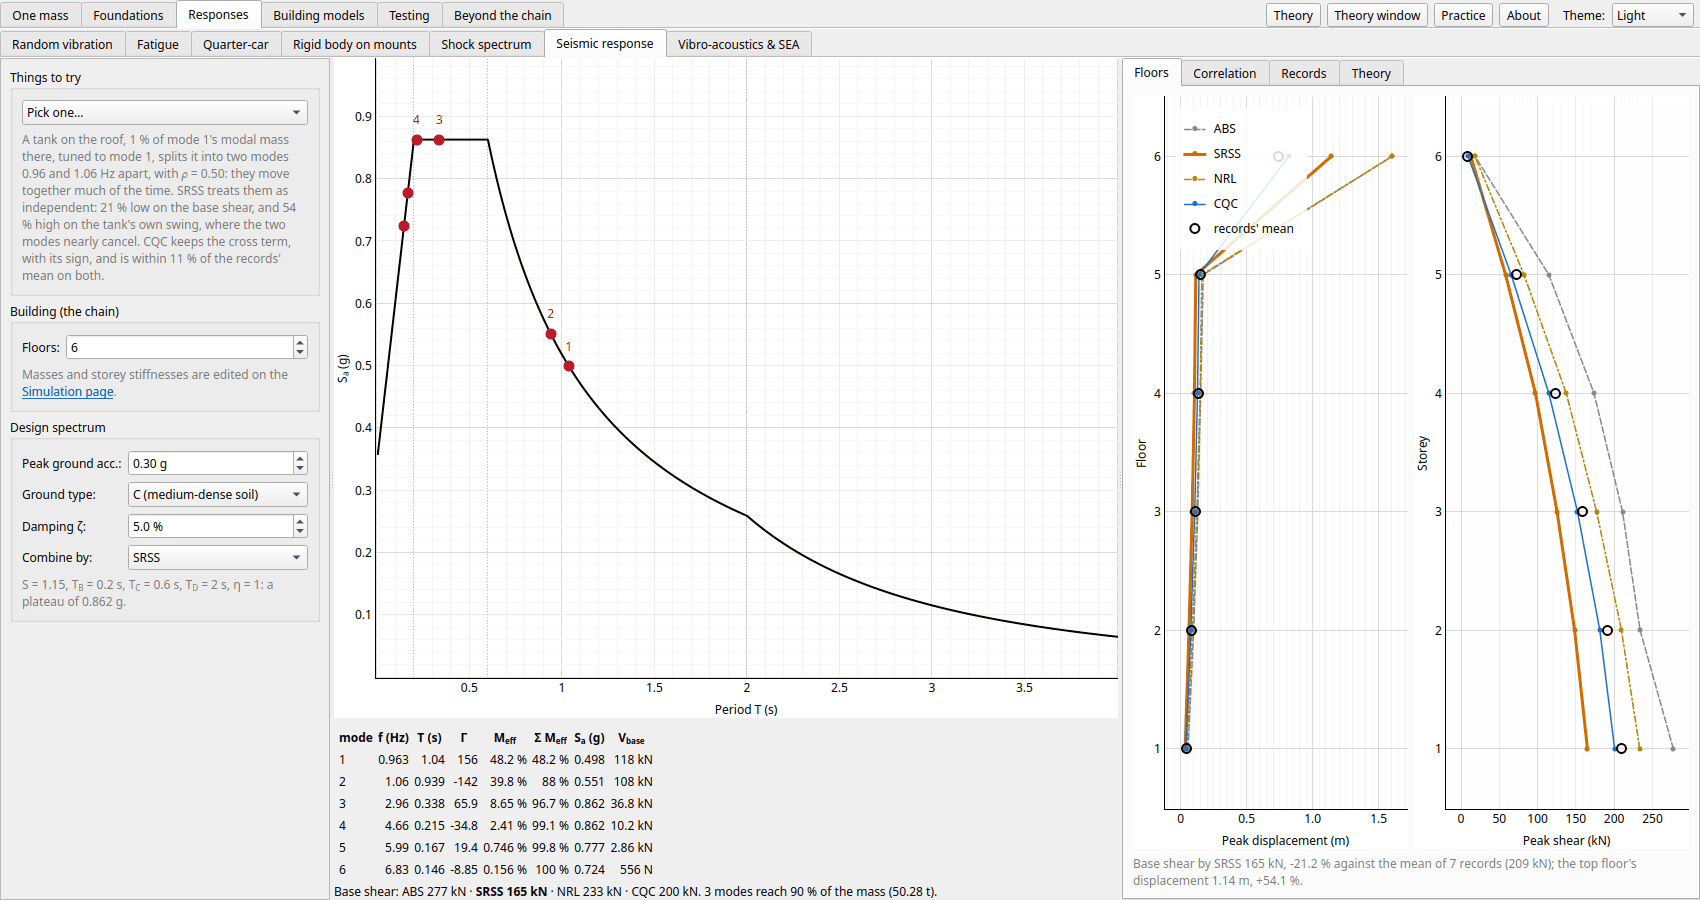
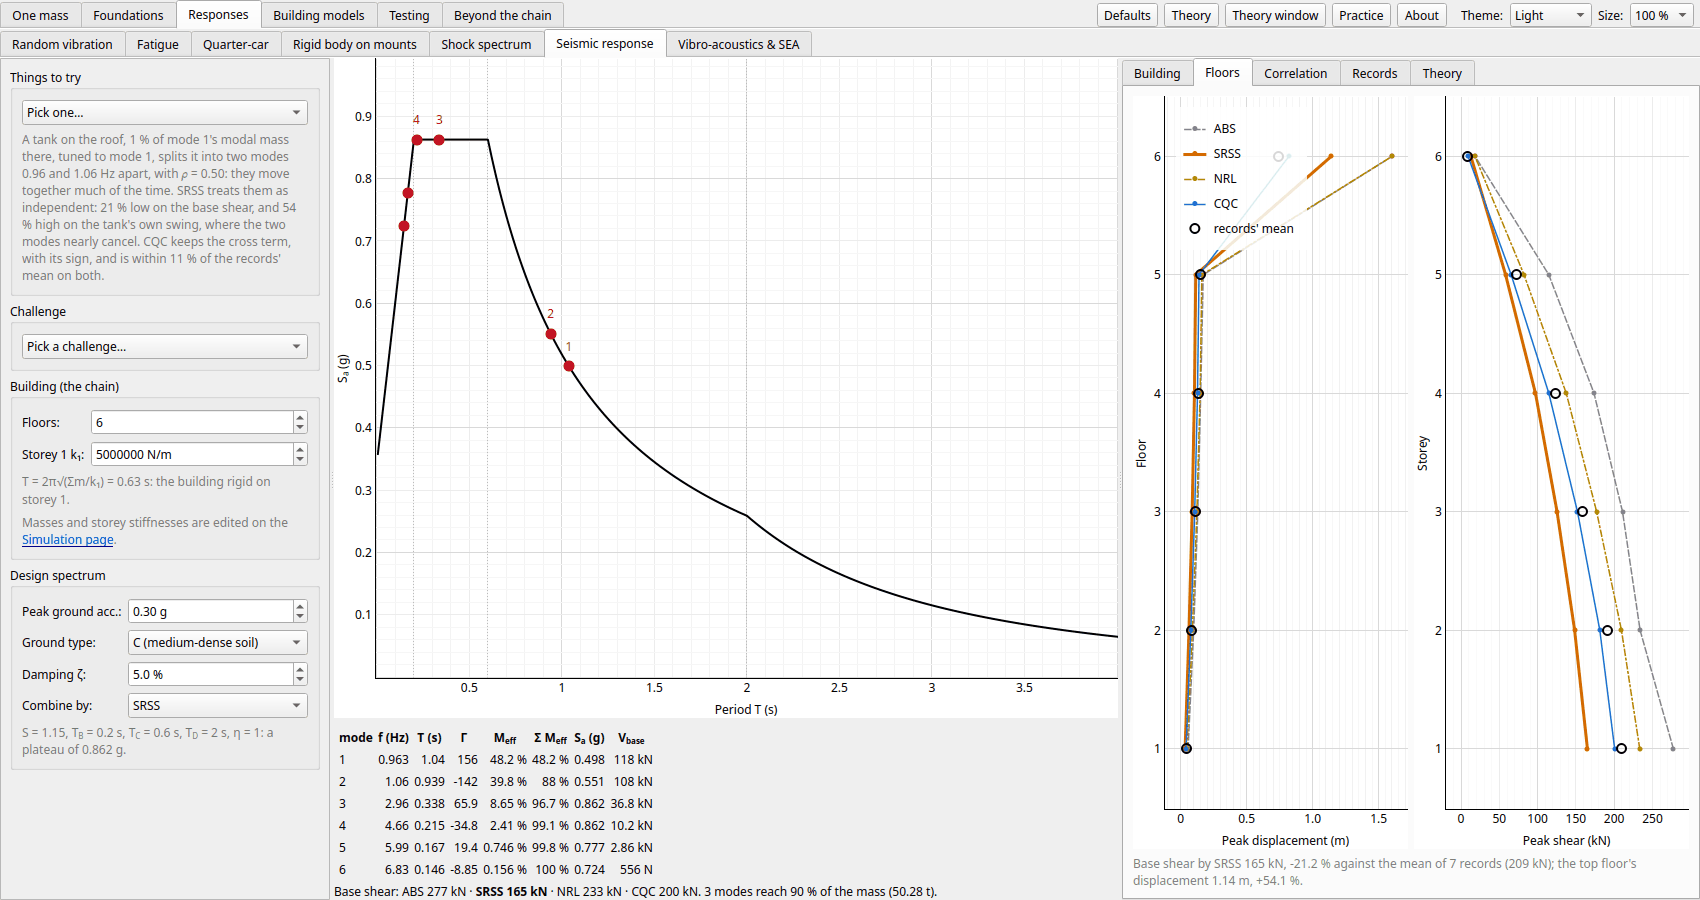
Seismic: draw tabs only once the page has drawn; Building tab tests and docs (#316 B7)

Changed region(s): [[0.0, 0.3422, 0.1871, 0.84], [0.6547, 0.0, 0.9976, 0.0311], [0.6547, 0.0622, 0.8729, 0.0933]]

diff --git a/src/vib_tutorial/theory/seismic.html b/src/vib_tutorial/theory/seismic.html
@@ -70,7 +70,9 @@ the frame are racked by each storey's drift, so a code limits it as a fraction o
 Eurocode 8 takes that as the design one scaled by <m>ν</m> (0.5 for ordinary buildings) and asks for
 <m>νΔ</m> ≤ 0.005<m>h</m> with brittle partitions fixed to the frame, 0.0075<m>h</m> with ductile ones and
 0.010<m>h</m> where they are fixed so they don't feel it. A soft storey, much less stiff than those above it
-(the open ground floor of a car park or shop), takes most of the drift (Things to try, 7).</p>
+(the open ground floor of a car park or shop), takes most of the drift (Things to try, 7). The <b>Building</b>
+tab plays the building on the first record: each storey's columns redden as its drift nears the largest any
+storey reaches on it.</p>
 
 <h3><a name="ductility"></a>Ductility and the behaviour factor</h3>
 <p>The elastic spectrum's forces are large: this page's five storeys would need a base shear of nearly half their
@@ -106,7 +108,9 @@ where <m>S<sub>a</sub></m> is a fraction of the plateau, and it carries almost a
 which would bend the building, are barely driven. The price is the bearings' displacement, a few hundred
 millimetres, which the services and the gap round the building must allow, and which the bearings' damping (10
 to 30 %) is there to keep down. It works on firm ground; on soft soil, whose spectrum stays high to long periods,
-it gains less.</p>
+it gains less. On this page, put the building on a slab (one more mass, on the Simulation page) and storey
+1's stiffness, in its own box, is the bearings': the box gives <m>T<sub>b</sub></m> beside it, and the
+challenge <i>Isolate the base</i> asks for bearings that cut the shear above them without moving too far.</p>
 
 <h3><a name="worked-example"></a>Worked example</h3>
 <p>The page opens on five 10 t floors on 5 MN/m storeys, under <m>a<sub>g</sub></m> = 0.3 g on ground type C

diff --git a/tests/test_seismic.py b/tests/test_seismic.py
@@ -60,3 +60,39 @@ def test_the_record_matches_the_spectrum_and_one_mode_is_exact():
 
     sd = srs(g.record, m.f, d.zeta).displacement[0]
     assert h.peak_displacement[0] == pytest.approx(sd, rel=3e-3)  # sampled peaks; the SRS refines its own
+
+
+def test_the_building_sways_under_the_record_its_drifting_storey_reddened(main_window):
+    """The Building tab plays the first record: the floors placed from its history, the storey drifting most the
+    force colour; storey 1's box edits the chain (the Simulation page's too)."""
+    from PySide6 import QtGui, QtWidgets
+
+    from vib_tutorial.gui.seismic import TAB_BUILDING, TRIALS
+    from vib_tutorial.gui.style import colors
+
+    w = main_window
+    page = w.seismic_page
+    w.pages.setCurrentWidget(page)
+    QtWidgets.QApplication.processEvents()
+    for name, storey in (("A soft storey", 0), ("Base isolation", 0), ("A five-storey building", None)):
+        page.load_trial(next(i for i, t in enumerate(TRIALS) if t.name == name))
+        page.tabs.setCurrentIndex(TAB_BUILDING)
+        h = page.history
+        assert h is not None and page.playback.span == pytest.approx(h.t[-1])
+        drift = np.abs(np.diff(h.displacement, prepend=0.0, axis=1))
+        k = int(np.argmax(np.max(drift, axis=1)))  # the instant of the record's largest drift
+        page.playback.seek(float(h.t[k]))
+        assert not page.playback.running  # a scrub pauses it
+        assert np.allclose(page.building.u, h.displacement[k])
+        share = page.building.drifts()
+        top = int(np.argmax(share))
+        assert share[top] == pytest.approx(1.0)
+        if storey is not None:  # the soft storey and the bearings take the drift
+            assert top == storey
+        pen = page.building.columns[top].opts["pen"].color()
+        assert pen.name() == QtGui.QColor(colors.force).name()
+        assert "Base shear" in page.building_note.text()
+
+    page.k1.setValue(2e6)
+    assert w.sim.system.stiffness[0] == pytest.approx(2e6) and page.system.stiffness[0] == pytest.approx(2e6)
+    assert "T = 2π√(Σm/k₁) = 0.993 s" in page.k1_info.text()  # 2π √(5 × 10 t / 2 MN/m)

diff --git a/src/vib_tutorial/gui/seismic.py b/src/vib_tutorial/gui/seismic.py
@@ -1,10 +1,16 @@
 """Seismic response spectrum page: the Simulation page's chain as a building, a design spectrum, and the modes'
 peaks combined, against the building stepped on records that match the spectrum.
 
-Left: the design spectrum (peak ground acceleration, ground type, damping) and the combination rule. Centre: the
-spectrum with each mode on it, and the modes' table (period, participation, effective mass, base shear). Right:
-each floor's peak displacement and each storey's shear by every rule and by the records, the modes' correlation,
-the ground motions, and the Theory.
+Left: the trials, the challenges (`ChallengeBox`: the damping and base-isolation specs), the building (its floors,
+and storey 1's stiffness k₁, the bearings' when it stands on a slab, with the period of the whole building
+rigid on it), the design spectrum (peak ground acceleration, ground type, damping) and the combination rule.
+Centre: the spectrum with each mode on it, and the modes' table (period, participation, effective mass, base
+shear). Right: the building swaying under the first record (`seismic_view.BuildingView`, played by a `Playback`
+with a time cursor on the record; a trial starts it), each floor's peak displacement and each storey's shear by
+every rule and by the records, the modes' correlation, the ground motions, and the Theory.
+
+Working on it: `tests/test_seismic.py` checks the building follows the playback with the drifting storey
+reddened, and the k₁ box edits the chain; `tests/test_challenge.py` the challenges.
 """
 
 from __future__ import annotations
@@ -774,6 +780,8 @@ class SeismicPage(QtWidgets.QWidget):
         )
 
     def _draw_tab(self) -> None:
+        if self._dirty:  # a tab picked before the page has drawn (hidden): it draws when it shows
+            return
         i = self.tabs.currentIndex()
         if i == TAB_BUILDING:
             self._draw_building()

diff --git a/tests/test_challenge.py b/tests/test_challenge.py
@@ -9,7 +9,7 @@ import pytest
 os.environ.setdefault("QT_QPA_PLATFORM", "offscreen")
 QtWidgets = pytest.importorskip("PySide6.QtWidgets")
 
-PAGES = ("isolation_page", "quarter_car_page", "active_control_page", "frame_page", "rotor_page")
+PAGES = ("isolation_page", "quarter_car_page", "active_control_page", "frame_page", "rotor_page", "seismic_page")
 
 
 @pytest.fixture(scope="module")

diff --git a/docs/responses.md b/docs/responses.md
@@ -152,7 +152,11 @@ The chain as a shear building on the ground: a design spectrum in the European c
 mode's participation and effective mass, peak floor displacements, drifts and storey shears from the
 spectrum, combined by ABS, SRSS, NRL or CQC, against seven records synthesized to match the spectrum and
 stepped exactly. A roof tank tuned to mode 1 shows why close modes need CQC; a soft storey and base
-isolation are trials too, and the notes cover drift limits, ductility and the behaviour factor.
+isolation are trials too, and the notes cover drift limits, ductility and the behaviour factor. The
+*Building* tab plays the building swaying under the first record, scrubbed with a time cursor, each storey's
+columns reddening as its drift nears the record's largest: the soft storey and the bearings light up. Storey
+1's stiffness has a box of its own, with the period of the building as a rigid block on it, and a challenge
+asks for the bearings that bring the shear above them under a limit without letting them move too far.
 
 ![Seismic response page: a roof tank tuned to mode 1 of the five-storey building splits it into modes at 0.96 and 1.06 Hz; SRSS gives a base shear of 165 kN, 21 % below the mean of seven matched records (209 kN), and the tank's swing 54 % high](images/seismic_response.png)
 
